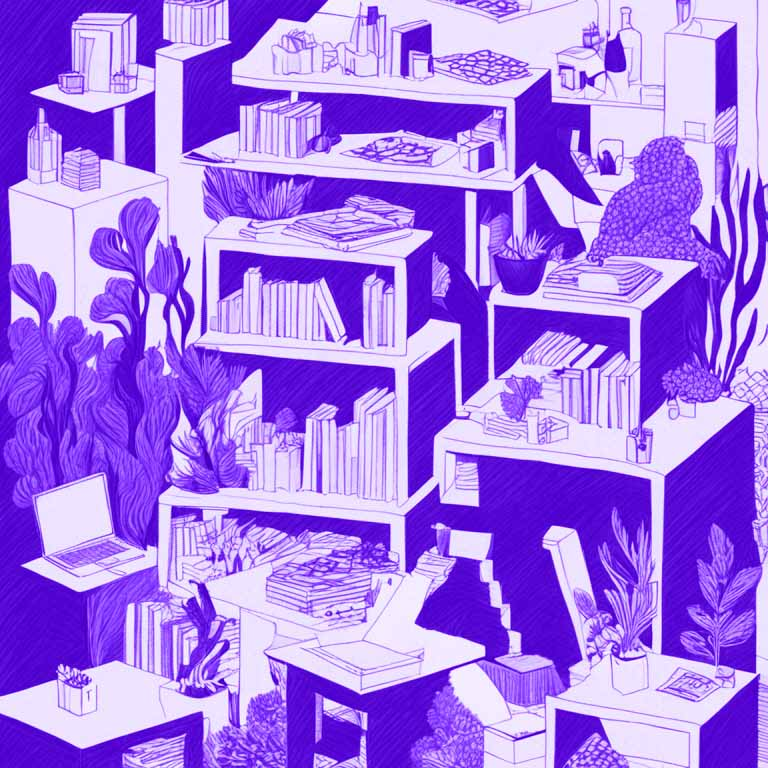
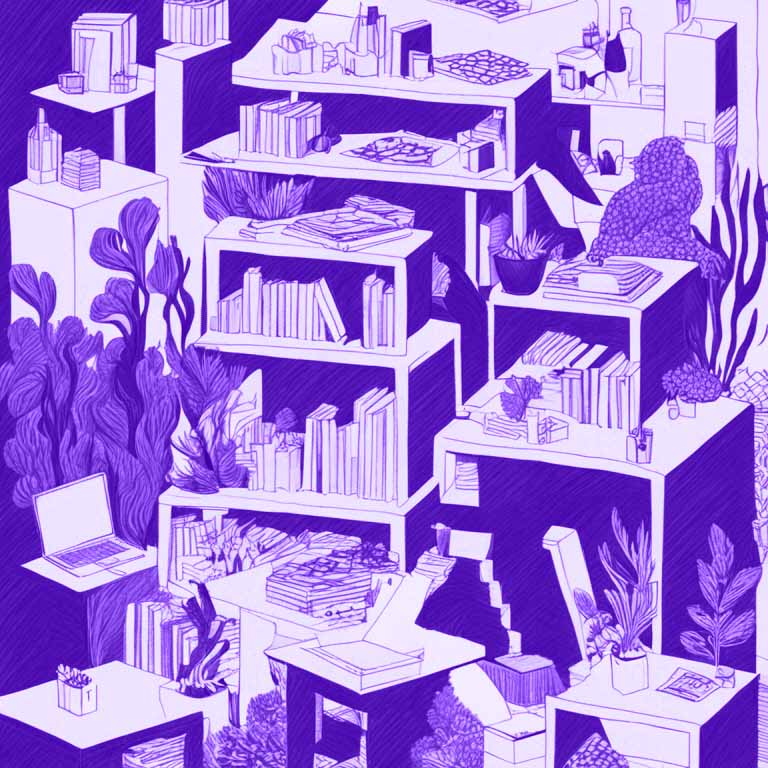
(PC-30577)[API] feat: update documentation main color

diff --git a/api/documentation/src/css/custom.css b/api/documentation/src/css/custom.css
@@ -6,7 +6,7 @@
 
 /* You can override the default Infima variables here. */
 :root {
-  --ifm-color-primary: #6123df;
+  --ifm-color-primary: #320096;
   --ifm-color-primary-dark: #29784c;
   --ifm-color-primary-darker: #277148;
   --ifm-color-primary-darkest: #320096;

diff --git a/api/documentation/docusaurus.config.ts b/api/documentation/docusaurus.config.ts
@@ -63,7 +63,7 @@ const config: Config = {
           },
         ],
         theme: {
-          primaryColor: '#6123df',
+          primaryColor: '#320096',
         },
       },
     ] satisfies Redocusaurus.PresetEntry,
